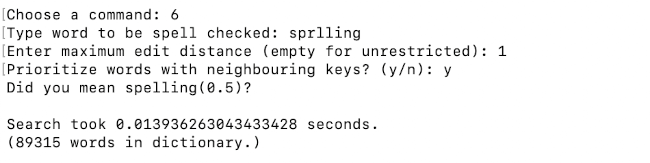
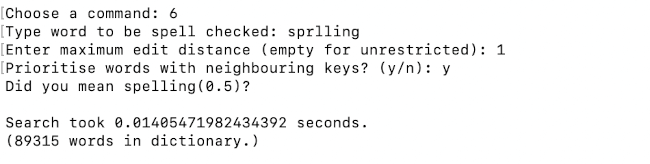
Fix some errors and language inconsistencies in the documentation

diff --git a/src/index.py b/src/index.py
@@ -66,7 +66,7 @@ def check_spelling(method: str):
     except ValueError:
         max_edit = None
 
-    neighbour_check = input_yes_no("Prioritize words with neighbouring keys? (y/n): ")
+    neighbour_check = input_yes_no("Prioritise words with neighbouring keys? (y/n): ")
 
     result = []
     if method == "recursive":

diff --git a/documentation/testing_document.md b/documentation/testing_document.md
@@ -5,7 +5,7 @@
 The program has been automatically tested using the _unittest_ framework.
 
 - The app logic class SpellCheckerService.py is tested with the class [TestSpellcheckerService](../src/tests/spellchecker_service_test.py). This test class also includes tests for the module providing the recursive implementation of traversing the trie and calculating Damerau-Levenshtein distances on the fly (distance_service_recursive).  
-The tests cover all functionalities available through the application user interface, e.g. asserting that correct results are returned for both the baseline and recursive spell checker, both when entering misspelled and correctly spelled words, with or without a maximum edit distance set beforehand or neighbouring keys prioritized when searching for close match word suggestions.
+The tests cover all functionalities available through the application user interface, e.g. asserting that correct results are returned for both the baseline and recursive spell checker, both when entering misspelled and correctly spelled words, with or without a maximum edit distance set beforehand or neighbouring keys prioritised when searching for close match spelling suggestions.
 
 - The WordlistRepository class, handling the reading from and writing to the wordlist file on disk, is tested with the class [TestWordlistRepository](../src/tests/wordlist_repository_test.py). The tests utlize a separate wordlist, used for testing purposes only. The filename of the test wordlist is configured in the .env.test-file.  
 The tests assert that reading from and writing to the wordlist file works as expected, and that words containing characters not in the allowed alphabet (as defined in [alphabet_utils.py](../src/services/alphabet_utils.py)) are skipped.
@@ -25,7 +25,7 @@ The performance of the two spellchecker implementations (baseline and recursive)
 
 The dictionary used can be changed by changing the filename of the file containing the wordlist with correctly spelled words (WORDLIST_FILENAME) in the [.env-file](../.env). The wordlist file should be placed in the data directory and contain one word per row. Parameters and functions relating to the allowed alphabet can be changed in the [alphabet_utils.py](../src/services/alphabet_utils.py)-file.
 
-More extensive perfomance tests can be run using the [PerformanceTester](../src/tests/performance_tester.py) class.  
+ Perfomance tests on batches of spelling errors can be run using the [PerformanceTester](../src/tests/performance_tester.py) class and script.  
 The performance tester is started from the command line:
 
 ```bash
@@ -60,7 +60,7 @@ The words containing non-ASCII lowercase letters were removed. The resulting dic
 
 ### Initial test results using the regular user interface
 
-(Results obtained without prioritizing substitutions by neighbouring keys.)
+(Results obtained without prioritising substitutions by neighbouring keys.)
 
 **Misspelled word:** "zooom"  
 
@@ -107,8 +107,8 @@ The words containing non-ASCII lowercase letters were removed. The resulting dic
 
 | Algorithm | Result | Max edit distance | Time used (seconds) |
 | --- | --- | --- | --- | 
-| Baseline (for-loop) | adage(3), ash(3), asiago(3), assign(3), aweigh(3), sigh(3), singh(3), sough(3) | 3 | 2.63363699009642 |
-| Recursive | adage(3), ash(3), asiago(3), assign(3), aweigh(3), sigh(3), singh(3), sough(3) | 3 | 0.21872165193781257 |
+| Baseline (for-loop) | adage(3), ash(3), assign(3), aweigh(3), sigh(3), sough(3) | 3 | 2.63363699009642 |
+| Recursive | adage(3), ash(3), assign(3), aweigh(3), sigh(3), sough(3) | 3 | 0.21872165193781257 |
   
 ---  
 The recursive algorithm is clearly much faster than the baseline implementation of looping through every word in the wordlist and calculating the Damerau-Levenshtein distance to the each word separately.
@@ -120,7 +120,7 @@ The capping of the maximum edit distance allowed should on average have a bigger
 
 Two random list of 10 misspellings were generated from the [Wikipedia list of common misspellings](https://en.wikipedia.org/wiki/Wikipedia:Lists_of_common_misspellings/For_machines): one with misspelled words with a length of 6 characters (shorter misspellings), and the other with misspellings that have a length of 12 characters (longer misspellings). These lists of spelling errors are by no means representative for spelling errors in general, but the results give some pointers on the performance of the spell checker algorithms and the effect of the optional parameters.
 
-All words from both lists were spell checked using the [performance tester script](../src/tests/performance_tester.py). In the two first runs no maximum edit distance was set beforehand and substitutions by neighbouring keys were not prioritized:
+All words from both lists were spell checked using the [performance tester script](../src/tests/performance_tester.py). In the two first runs no maximum edit distance was set beforehand and substitutions by neighbouring keys were not prioritised:
 
 **Shorter misspellings:**
 ![Plot with results for misspellings of length 6](./images/plot_error_len_6_no_max_edit.png)
@@ -133,7 +133,8 @@ Equally as expected, the recursive approach is much faster than the baseline imp
 
 The graph showing the results of spell checking the shorter misspellings also exposes some of the weaknesses in the Spellchecker app:
 
-- **Lack of heuristic for prioritising the suggestions**. Some of the misspellings return a long list of suggested correct spellings, each with the same Damerau-Levenshtein distance to the misspelled words. Picking the most relevant suggestion would require for example knowledge of context or data on how frequently different words occur in English texts in general. (Based on intuitive notion of frequency, 'bedore' seems for example to be a more likely misspelling of the word 'before' than 'bedsore', but the algorithm has no way of picking one over the other.)
+- **Lack of heuristic for prioritising the suggestions**. Some of the misspellings return a long list of suggested correct spellings, each with the same Damerau-Levenshtein distance to the misspelled words. Picking the most relevant suggestion would require for example knowledge of context, or data on how frequently different words occur in English texts in general. (Based on intuitive notion of frequency, 'bedore' for example seems to be a more likely misspelling of the word 'before' than 'bedsore', but the algorithm has no way of picking one over the other.)  
+
 Tests below show the results of introducing one specific and quite limited heuristic, namely prioritising substitutions by neighbouring keys. 
 
 - **Poor accuracy when spelling error is not [typographical](https://en.wikipedia.org/wiki/Typographical_error)**. Some spelling errors are not caused by mechanical slips on a keyboard, but occur because the writer simply does not know how to spell the word, uses a similarly pronounced homonym by mistake, or makes a grammatical error, as for example in the case 'arised - arose'. In these cases the correct spelling might have a long Damerau-Levenshtein distance to the misspelling and is not suggested, since words with lower edit distance are found.
@@ -166,17 +167,18 @@ Substitutions by neighbouring keys seems not to be a prominent enough cause of s
 
 For the sake of comparison the same test was run on a list of 300 spelling errors randomly picked from a list of spelling errors collected from typewritten or terminal input by staff and students in the Department of Information Studies of Sheffield University in the 1980's, consisting mainly of keyboarding errors, and assumedly typed by persons with a good knowledge of English. (This list is part of the Birkbeck spelling error corpus, made available by the [Oxford Text Archive](https://ota.bodleian.ox.ac.uk/repository/xmlui/handle/20.500.12024/0643?show=full).). 
 
-The results for the Sheffield data were somewhat better with regard to accuracy, but prioritising neighbouring keys still led to a decline in the success rate, compared to the algorithm were all edit operations were assigned an equal weight:
+The results for the Sheffield data were somewhat better with regard to accuracy, but prioritising neighbouring keys still led to a decline in the success rate, compared to the algorithm were all edit operations were assigned an equal edit cost:
 
 | Heuristic | Mean suggestion count | Successes (correct word suggested) | Fails  | 
 | --- | --- | --- | --- |
 | None | 1.633333 | 292 | 8 |
 | Neighbouring key | 1.483333 | 270 | 30 |
 
-A closer look at the results revealed that the runs with activated neighbouring key priorisation did indeed return accurate (and fewer) suggestions for misspellings were such a substitution had taken place (nost->most, wouls->would), but at the same time, these successes were outnumbered by the cases where the neighbouring key priorisation led to failure to suggest the intended spelling for words where the typographical mistake was in fact an insertion, deletion and/or transposition. 
+A closer look at the results revealed that the runs with activated neighbouring key priorisation did indeed return accurate (and fewer) suggestions for misspellings were such a substitution had in fact occured (nost->most, wouls->would), but at the same time, these successes were outnumbered by the cases where the neighbouring key priorisation led to failure to suggest the intended spelling for words where the typographical mistake was an insertion, deletion and/or transposition. 
 
 To sum up: while prioritising substitutions by neighbouring keys is easy to implement in the algorithm for calculating Damerau-Levenshtein distance, the usefulness of such a priorisation alone seems quite limited.  
 
 
-**Reference:**
+**Reference:**  
+
 University of Oxford, Birkbeck spelling error corpus / Roger Mitton, Oxford Text Archive, http://hdl.handle.net/20.500.12024/0643.
